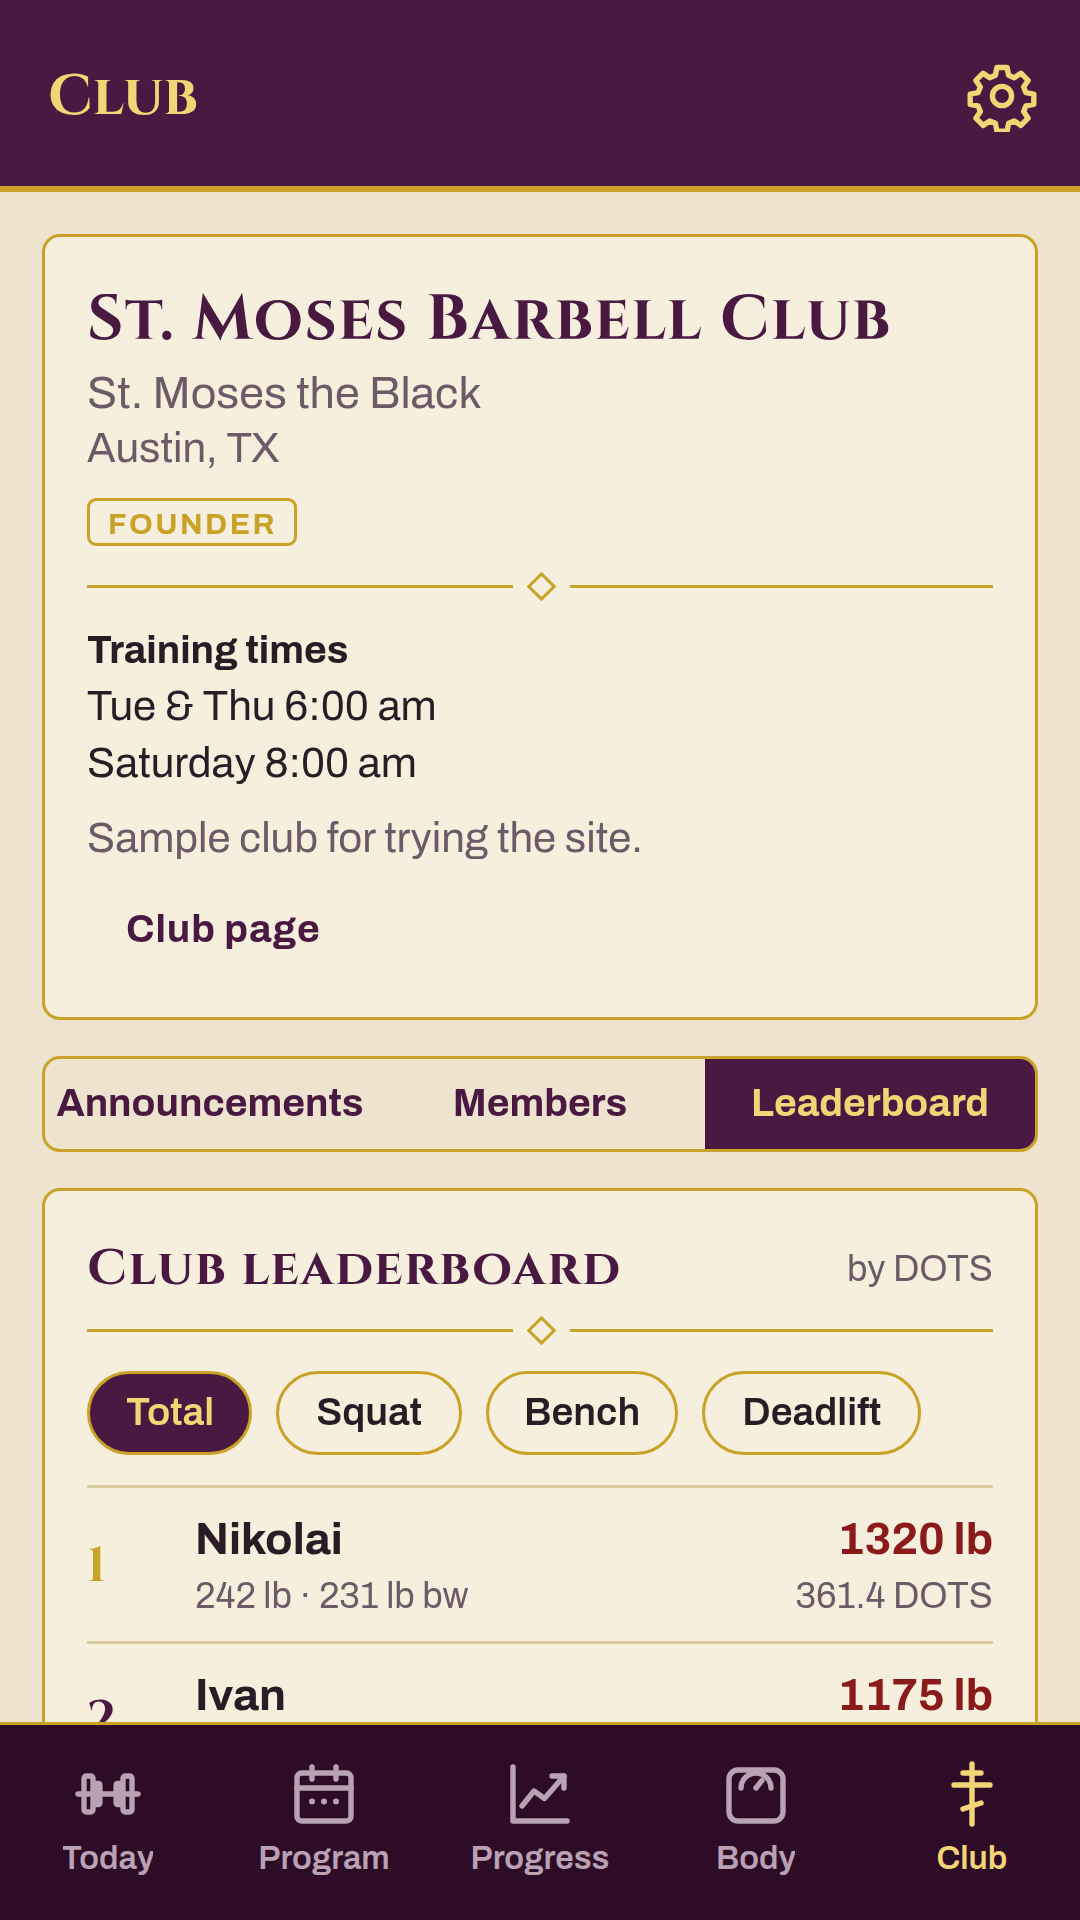
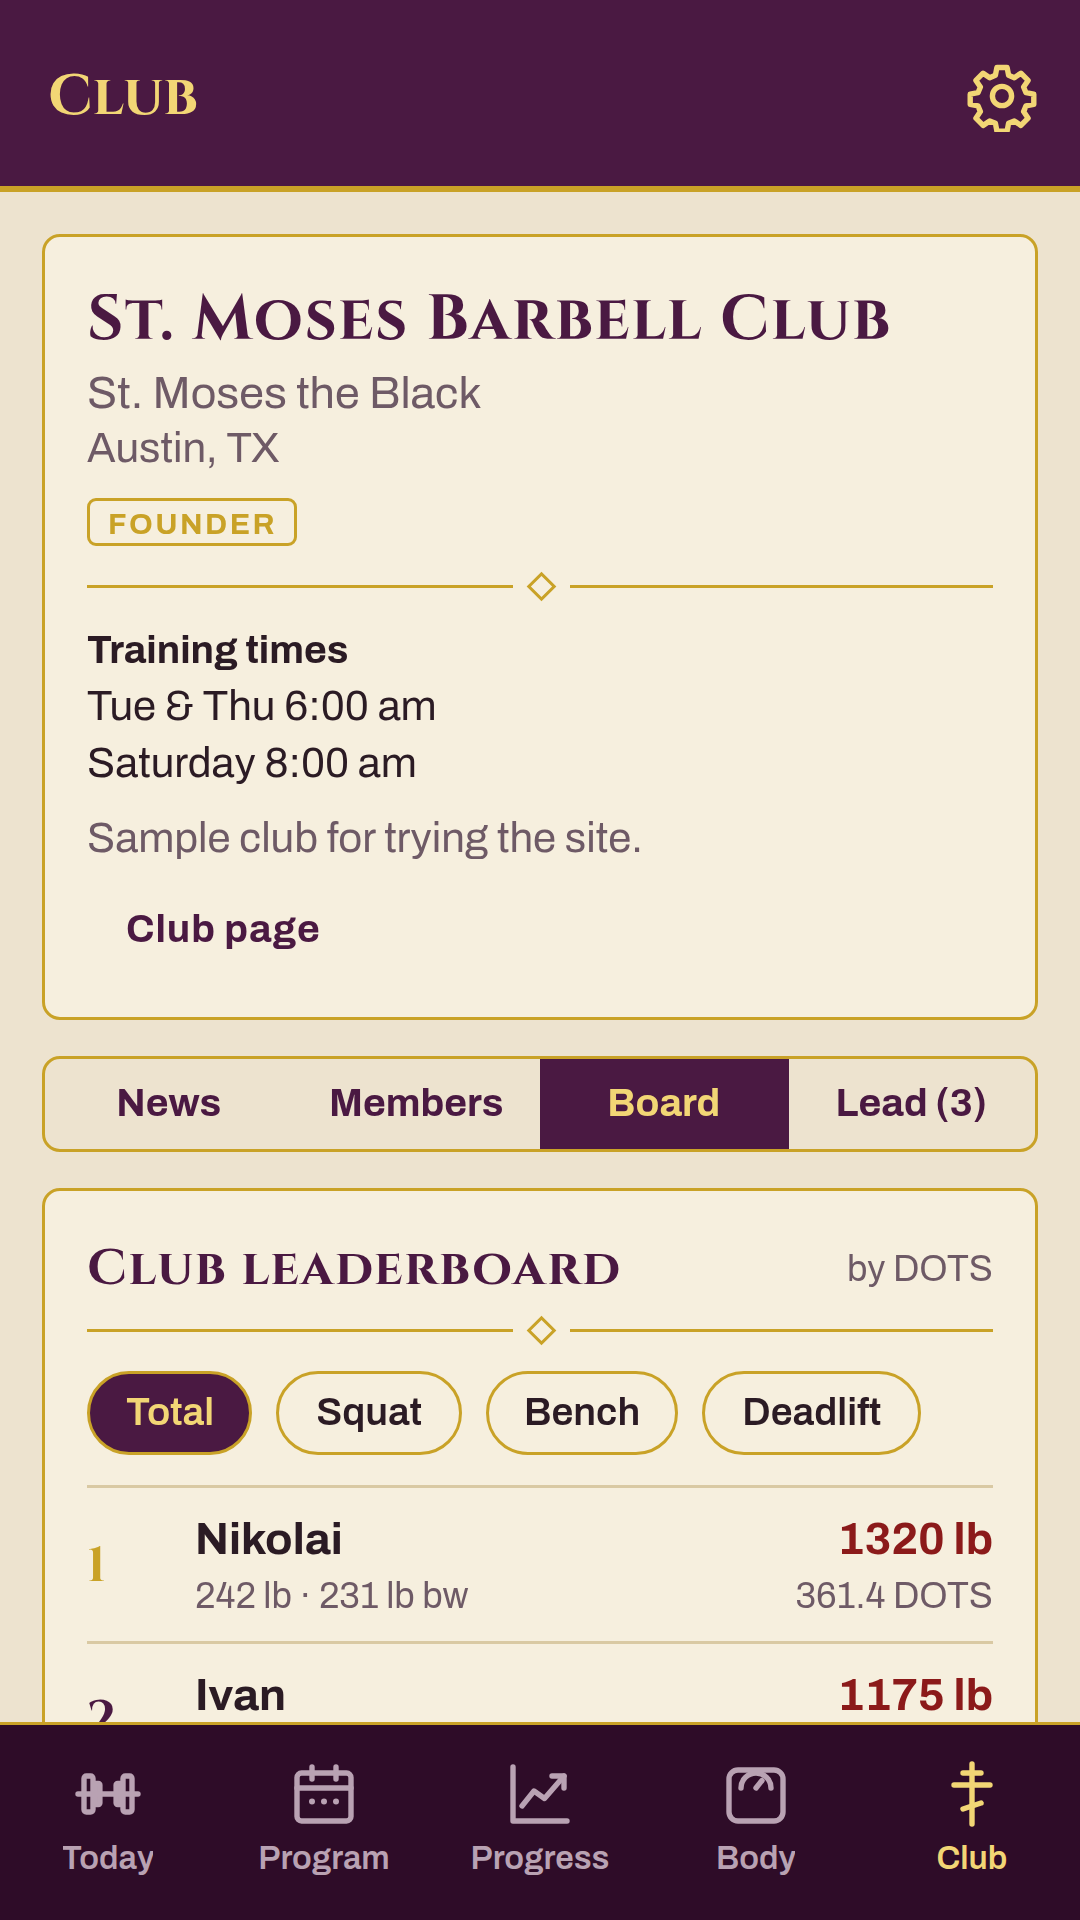
Refresh store screenshots for build 4 (News / Members / Board / Lead)
Claude-Session: https://claude.ai/code/session_01Hx8Pz14en8m9DQTqS5zs2s

Changed region(s): [[0.0611, 0.5312, 0.6722, 0.625], [0.7028, 0.5312, 0.9778, 0.625]]

diff --git a/tools/screenshots.py b/tools/screenshots.py
@@ -35,7 +35,7 @@ SHOTS = [  # (file name, route, text that shows the screen has loaded, tab to ta
     ("02-program", "/program", "Phase calendar", None),
     ("03-progress", "/progress", "Current training maxes", None),
     ("04-body", "/body", "Body weight", None),
-    ("05-club", "/club", "Club leaderboard", "Leaderboard"),
+    ("05-club", "/club", "Club leaderboard", "Board"),
 ]
 DEVICES = {  # name: (css width, css height, scale)
     "ios-6.9": (440, 956, 3),
